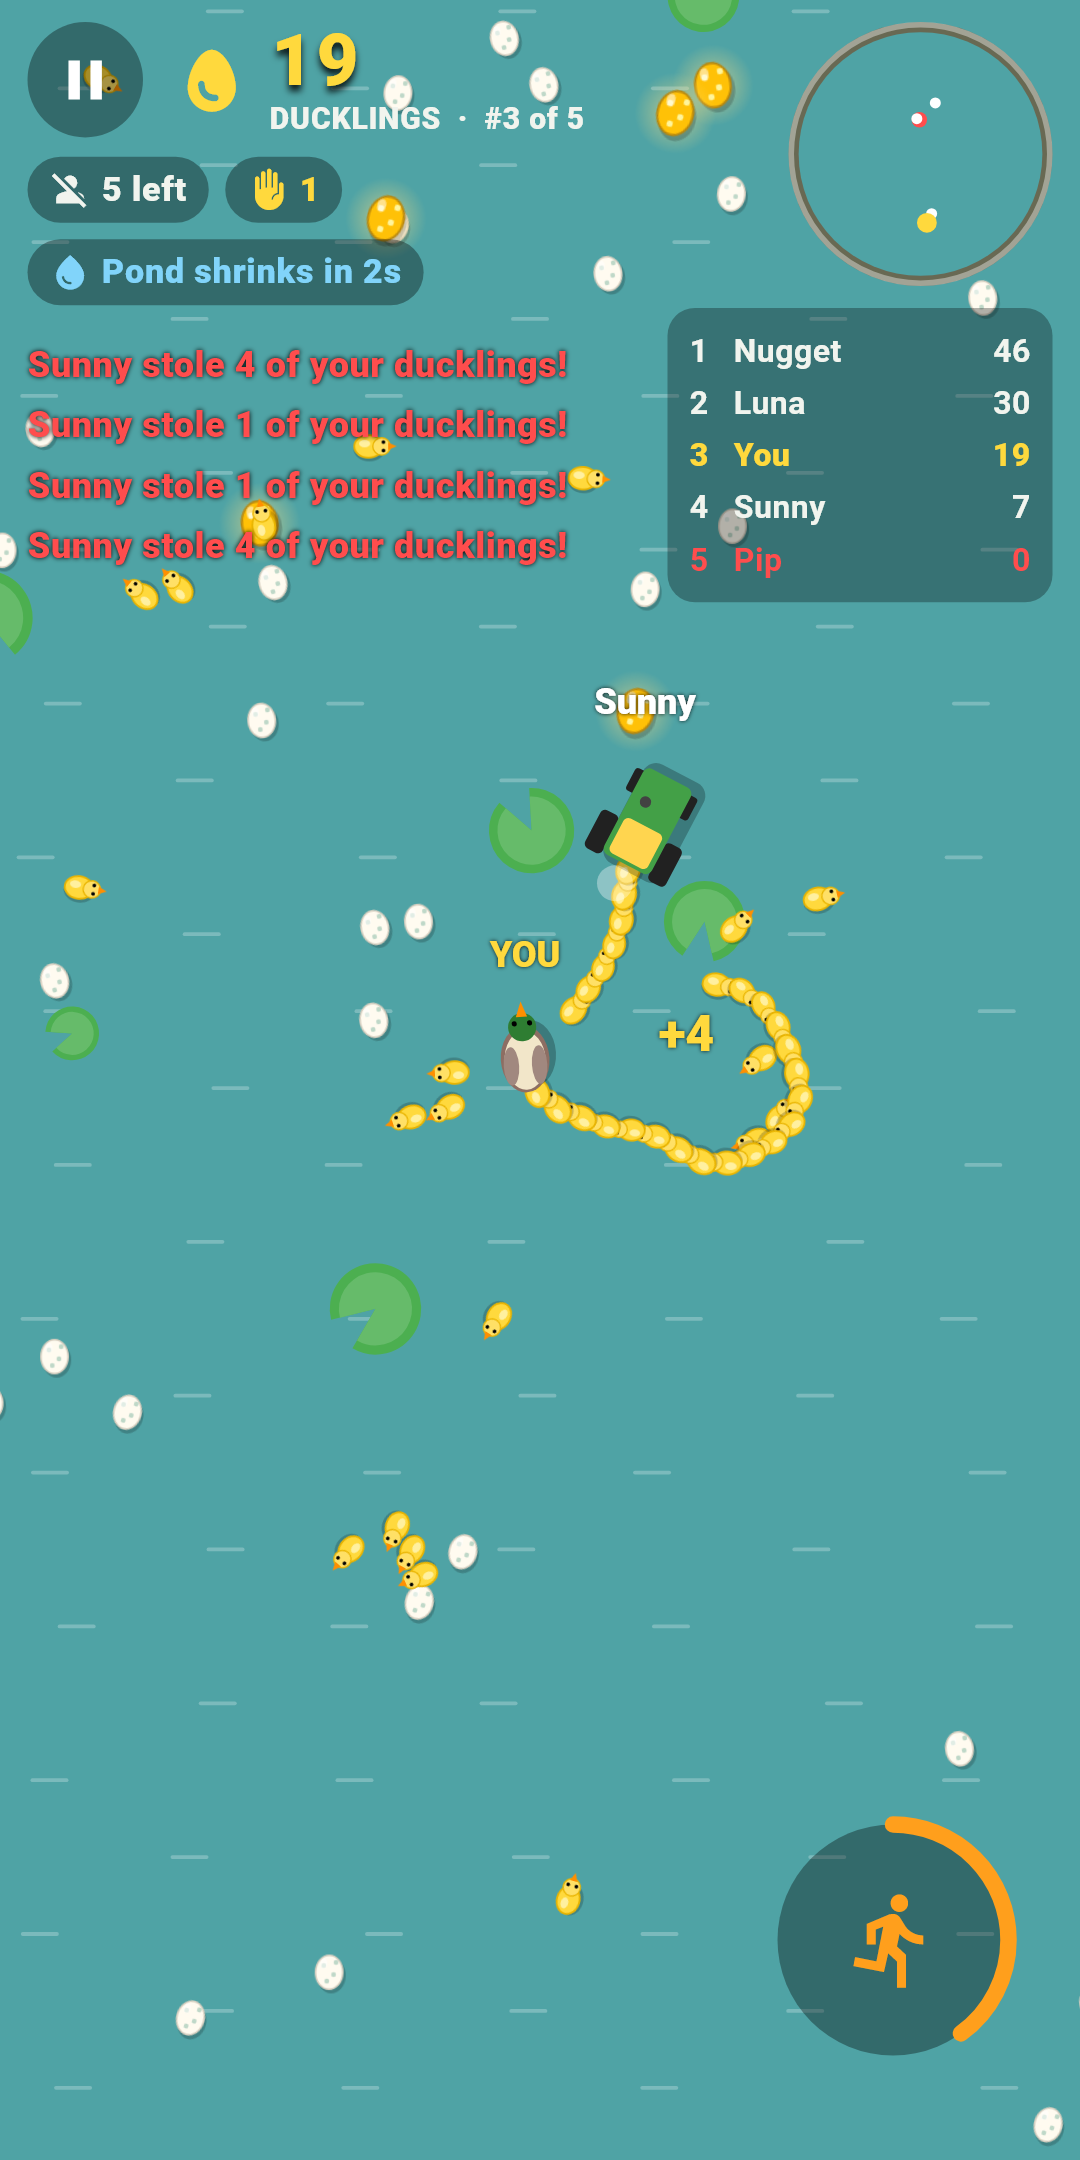
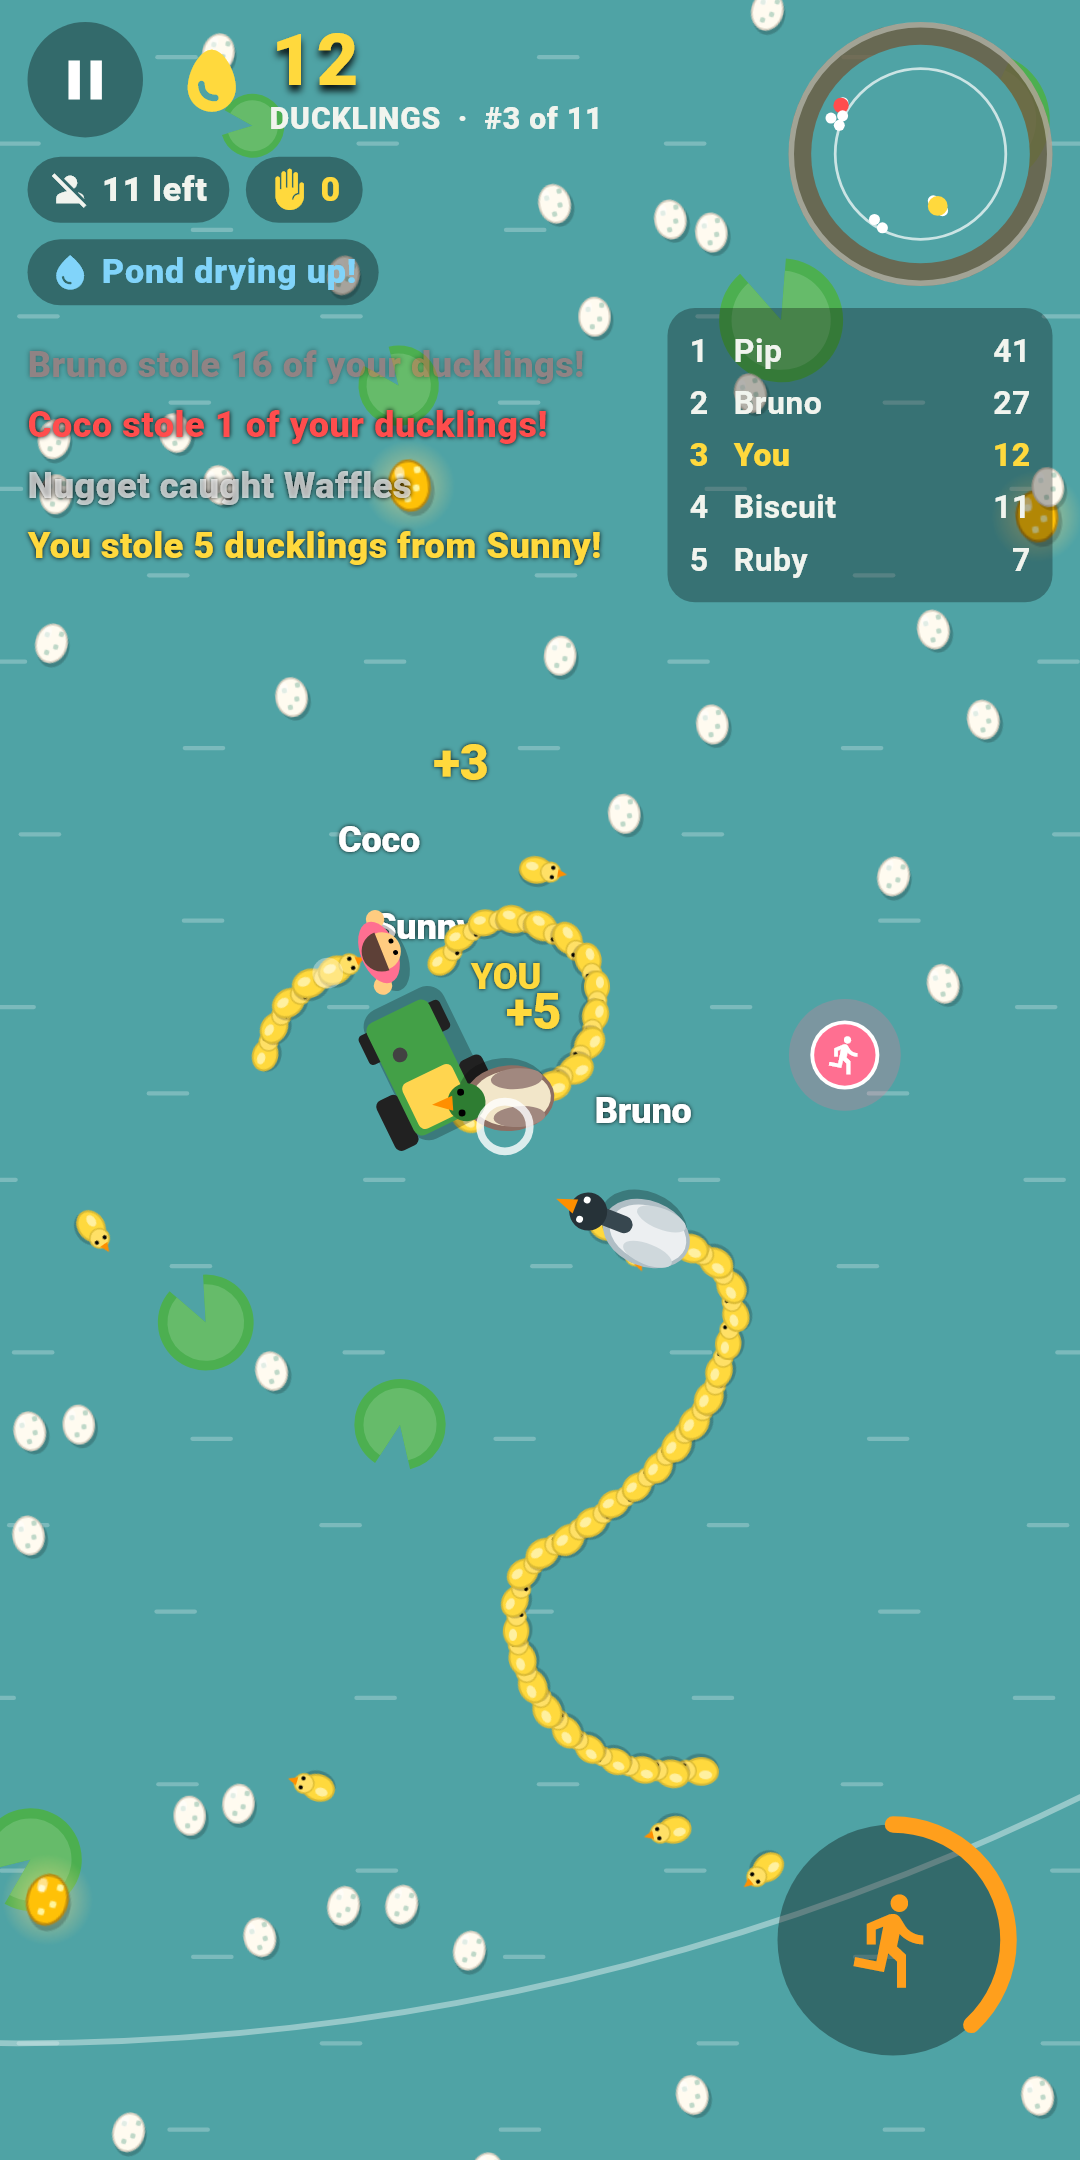
Quack Quack 1.2: grown-up ducks, crashes, circle capture, KO streaks

diff --git a/quackquack/index.html b/quackquack/index.html
@@ -69,6 +69,10 @@
       <p>Run over eggs: each duckling imprints on you and joins your line. Golden eggs hatch three at once.</p></div>
     <div class="card"><div class="emoji">🦆</div><h3>Bite to steal</h3>
       <p>Touch a rival's line with your head and every duckling behind the bite follows you instead.</p></div>
+    <div class="card"><div class="emoji">💥</div><h3>Grown-ups are a wall</h3>
+      <p>Ducklings grow up into big ducks at the front of your line. Run into someone's grown-ups and you crash. Cut in front of rivals to make them crash and grab the loot!</p></div>
+    <div class="card"><div class="emoji">🌀</div><h3>Circle and capture</h3>
+      <p>Close your line around a rival to capture them and every duckling they lead. Chain knockouts for DOUBLE and TRIPLE QUACK streaks.</p></div>
     <div class="card"><div class="emoji">🛡</div><h3>Ducklings are your shield</h3>
       <p>While you have ducklings you can't be knocked out. Lose them all and any leader can catch you!</p></div>
     <div class="card"><div class="emoji">🏆</div><h3>Battle royale</h3>
@@ -100,6 +104,7 @@
     <img src="img/screen-07.png" alt="Endless mode with rainbow ducklings" loading="lazy">
     <img src="img/screen-08.png" alt="Duckling skins" loading="lazy">
     <img src="img/screen-09.png" alt="Daily missions" loading="lazy">
+    <img src="img/screen-10.png" alt="A rival crashes into grown-up ducks: KO!" loading="lazy">
   </div>
 </main>
 <footer>
